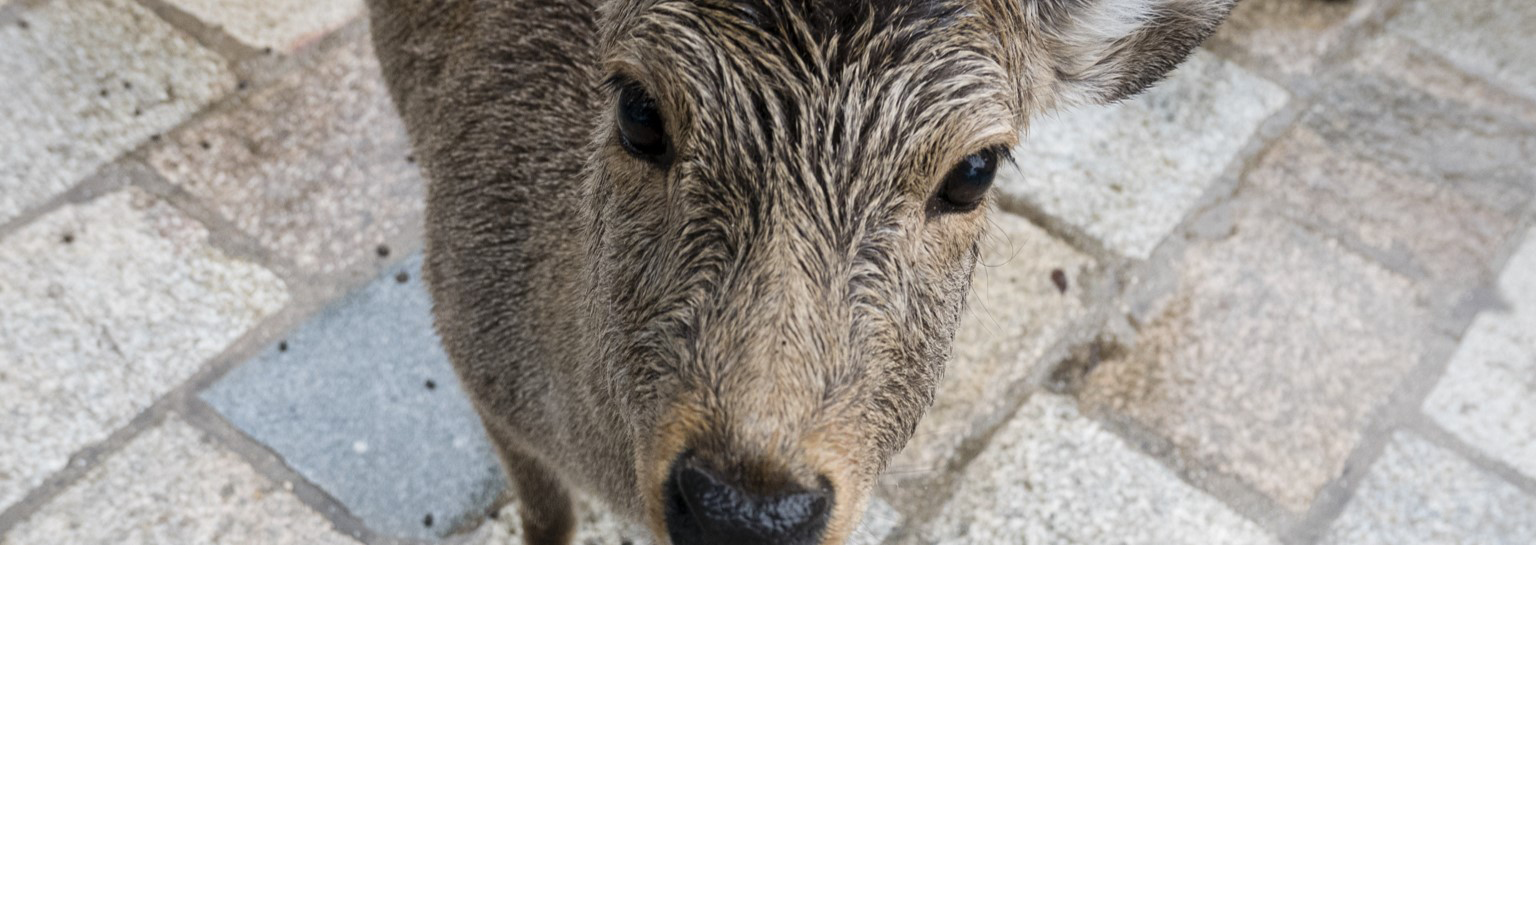
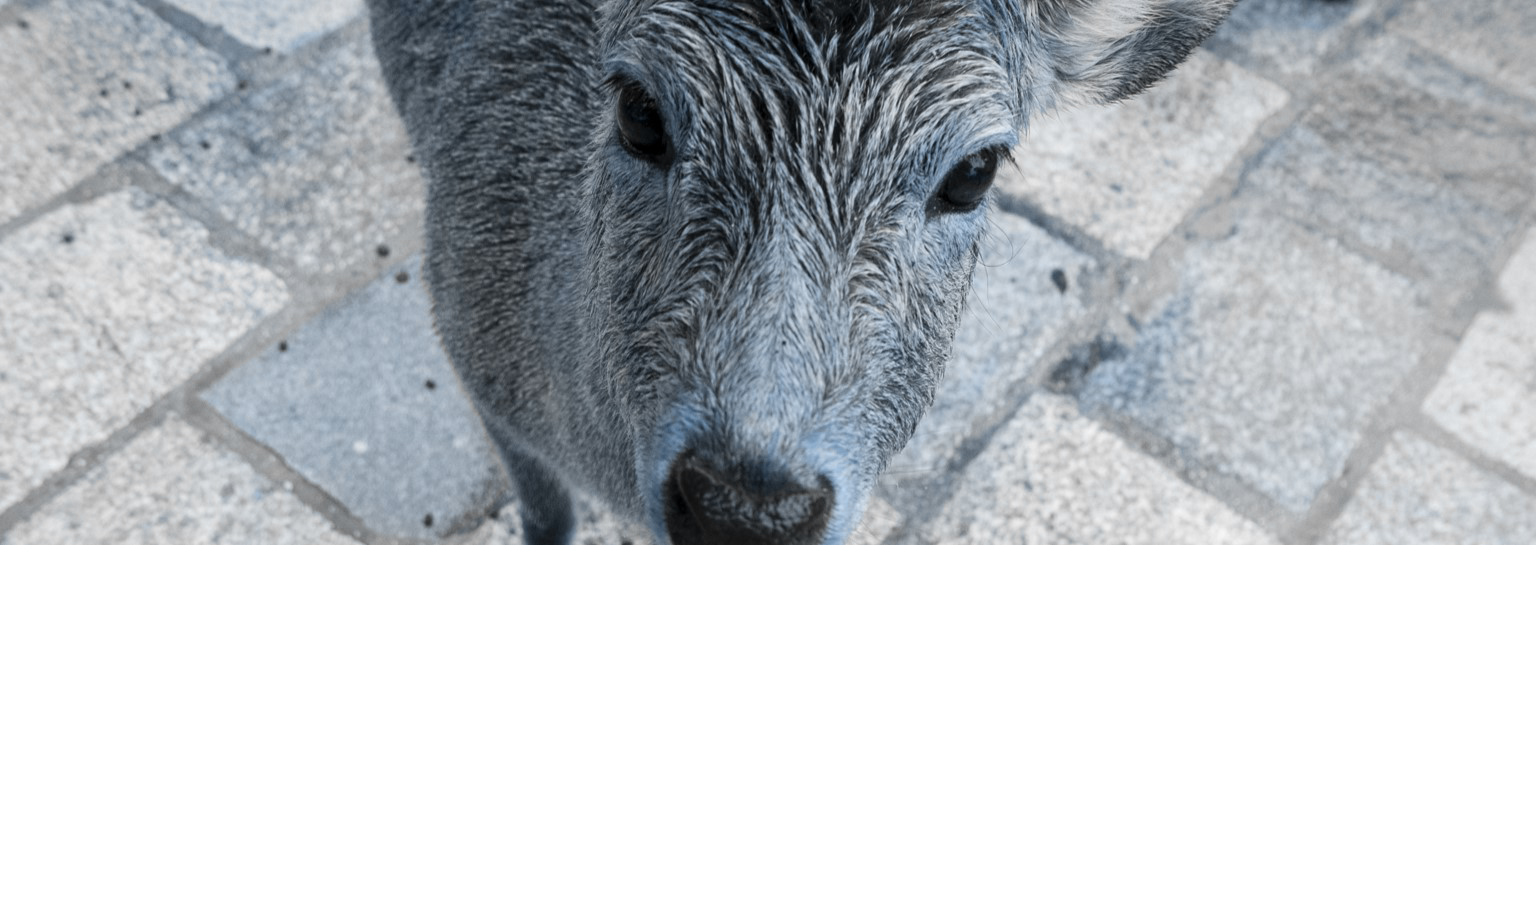
change homepage

diff --git a/napi2020/orig images/index copy.html b/napi2020/orig images/index copy.html
@@ -37,8 +37,8 @@
 body, html {
   height: 100%;
   font-family: 'Source Sans Pro', sans-serif;
-  color: #D4BB83;
-  background-color:#273747
+  color: #273747;
+  background-color:#CCCEC3
 }
 
 .bgimg-1, .bgimg-2, .bgimg-3 .bgimg-4 {
@@ -174,17 +174,17 @@ h3 {
   /*letter-spacing: 2px;*/
   /*text-transform: uppercase;*/
   font-weight: bold;
-  color: #c38a19;
+  /*color: #4C6989;*/
   font-family: 'Playfair Display', serif;
 }
 
 a.navb-brand {
-  color: #c38a19;
+  color: #273747;
   font-weight: bold;
 }
 
 a.navb-brand:hover {
-  color: #D4BB83;
+  color: #C38A19;
   font-weight: bold;
 }
 
@@ -195,13 +195,13 @@ a.navb-brand:hover {
 }
 
 a.navb-item{
-  color: #c38a19;
+  color: #273747;
   font-weight: bold;
   text-align: right;
 }
 
 a.navb-item:hover{
-  color: #D4BB83;
+  color: #C38A19;
 }
 
 .container-napi {
@@ -233,13 +233,13 @@ a.navb-item:hover{
   font-size: 3vh;
   /*letter-spacing: 10px;*/
   font-family: 'Playfair Display', serif;
-  color: #273747;
+  color: #CCCEC3;
   text-decoration: none;
 }
 
 .container-napi a.icon-button:hover {
-  background-color: #4C6989;
-  color: #c38a19;
+  background-color: #D4BB83;
+  color: #273747;
 }
 
 .container-napi-nav {
@@ -282,7 +282,7 @@ a.navb-item:hover{
 <body>
   <div class="container-napi-nav" style="width: 100%; position: absolute; z-index: 1;">
     <!--<nav class="navbar navbar-toggleable-md" style="background: transparent; padding: 0.5rem 0;">-->
-    <nav class="navbar navbar-toggleable-md" style="background: #273747; padding: 0.5rem 0; padding-left:5vw; padding-right:5vw;">
+    <nav class="navbar navbar-toggleable-md" style="background: #CCCEC3; padding: 0.5rem 0; padding-left:5vw; padding-right:5vw;">
         <button class="navbar-toggler navbar-toggler-right" type="button" data-toggle="collapse" data-target="#navbarContent" style="border: 1px solid #4C6989; color:#4C6989;
 ">
           <span class="fa fa-bars"></span>
@@ -326,7 +326,7 @@ a.navb-item:hover{
 
 
 <div class="container-napi">
-  <div style="color: #D4BB83;background-color:#273747;padding:50px 0 50px 0;">
+  <div style="color: #273747;background-color:#CCCEC3;padding:50px 0 50px 0;">
     <h3 style="text-align:center;font-weight: bold;">WELCOME!</h3>
     <p style="text-align:center;">Welcome to the NAIST Project for Interns 2020 page.</p>
     <center>
@@ -345,7 +345,7 @@ a.navb-item:hover{
 </div>
 
 <div style="position:relative;" class="container-napi">
-  <div style="color:#D4BB83;background-color:#273747;padding:40px 0 50px 0;text-align: left;">
+  <div style="color:#273747;background-color:#CCCEC3;padding:40px 0 50px 0;text-align: left;">
 
     <br>
     <h3 style="font-weight: bold;">What is NAPI?</h3>
